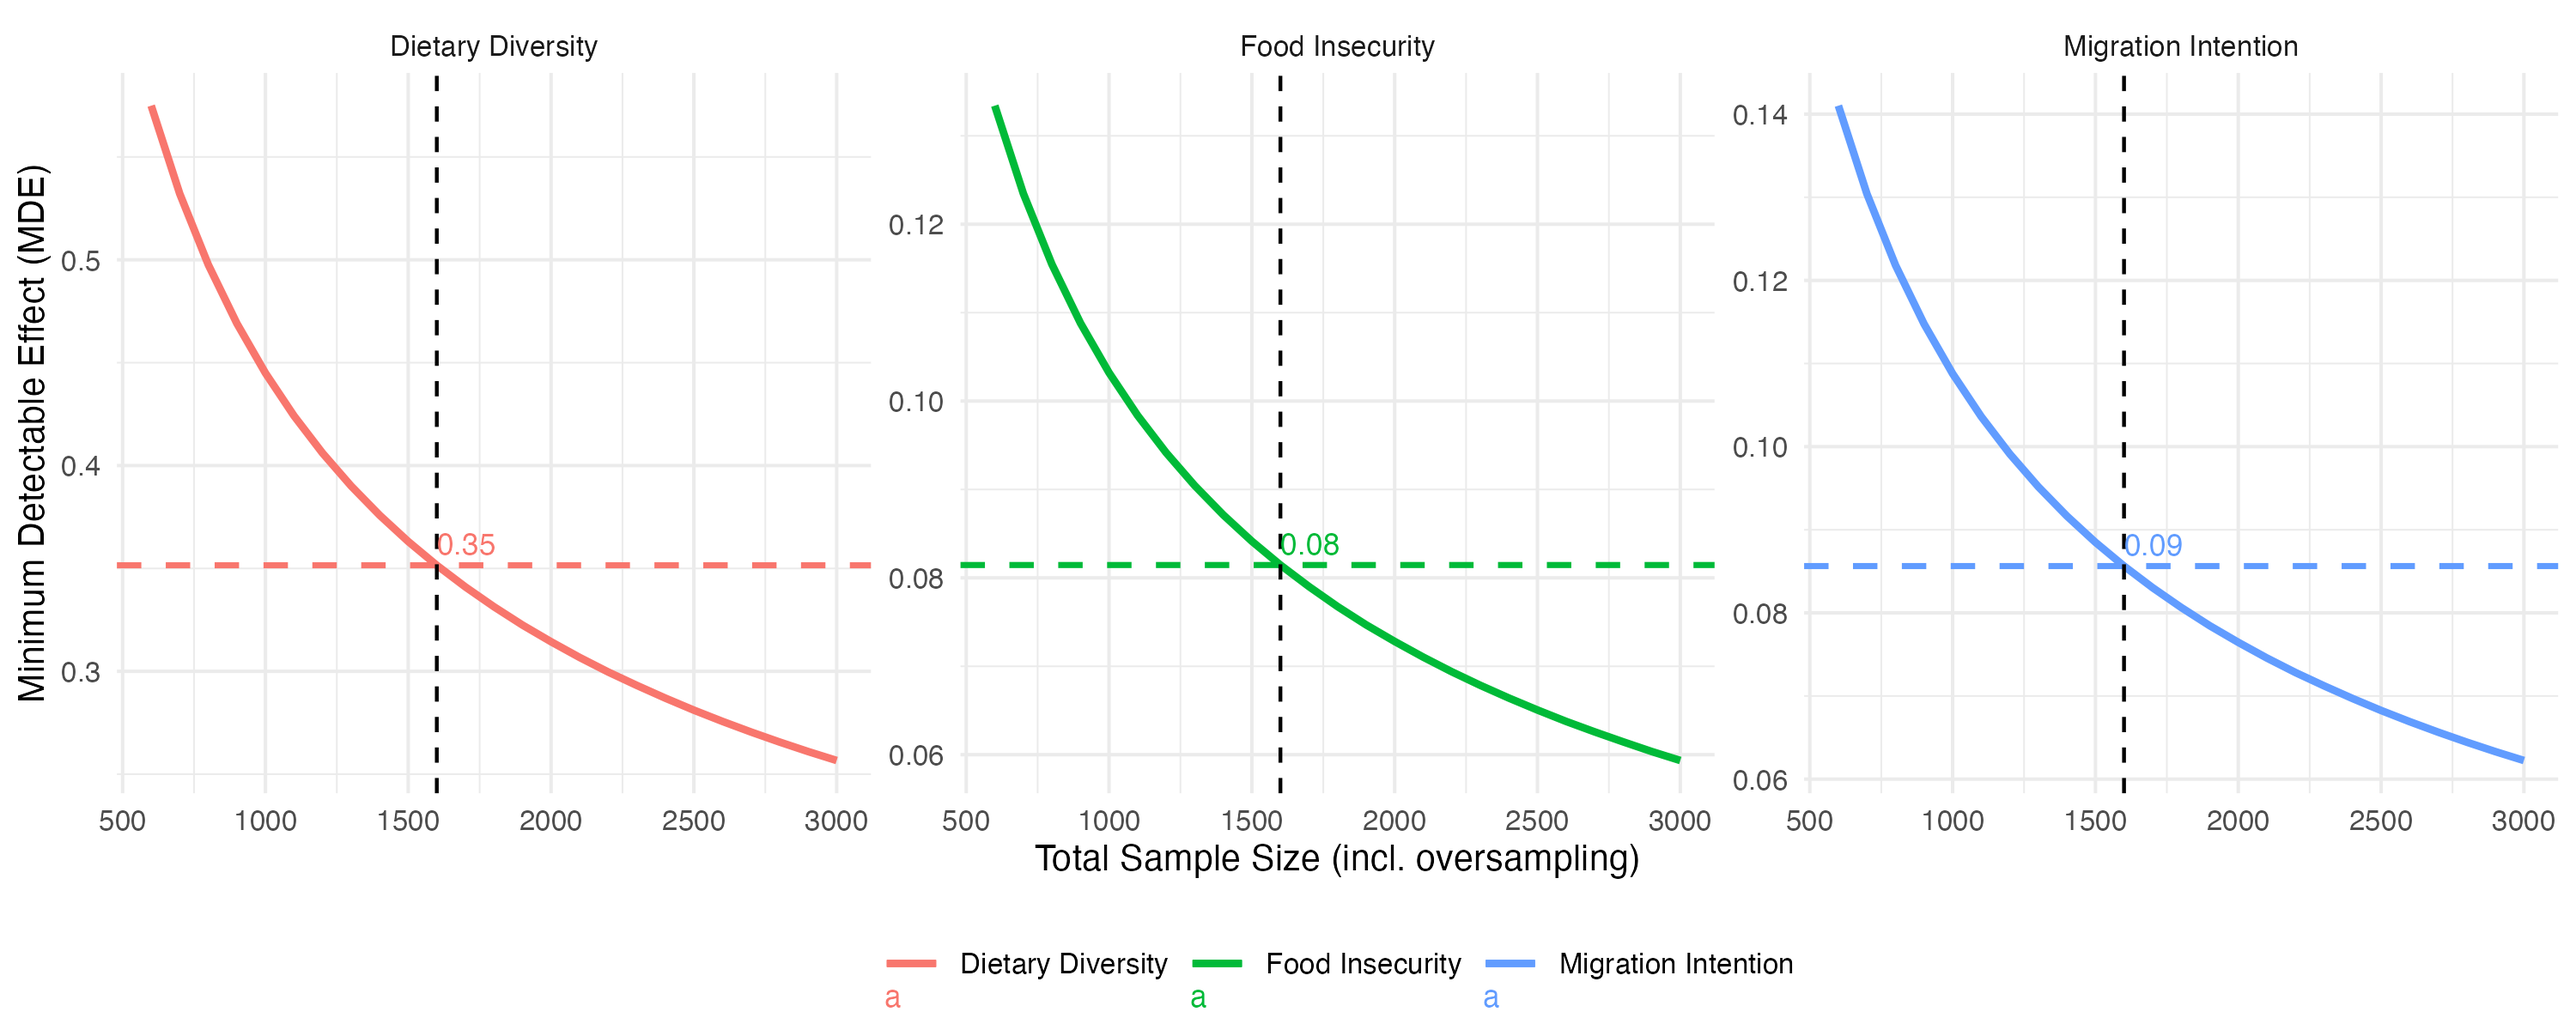
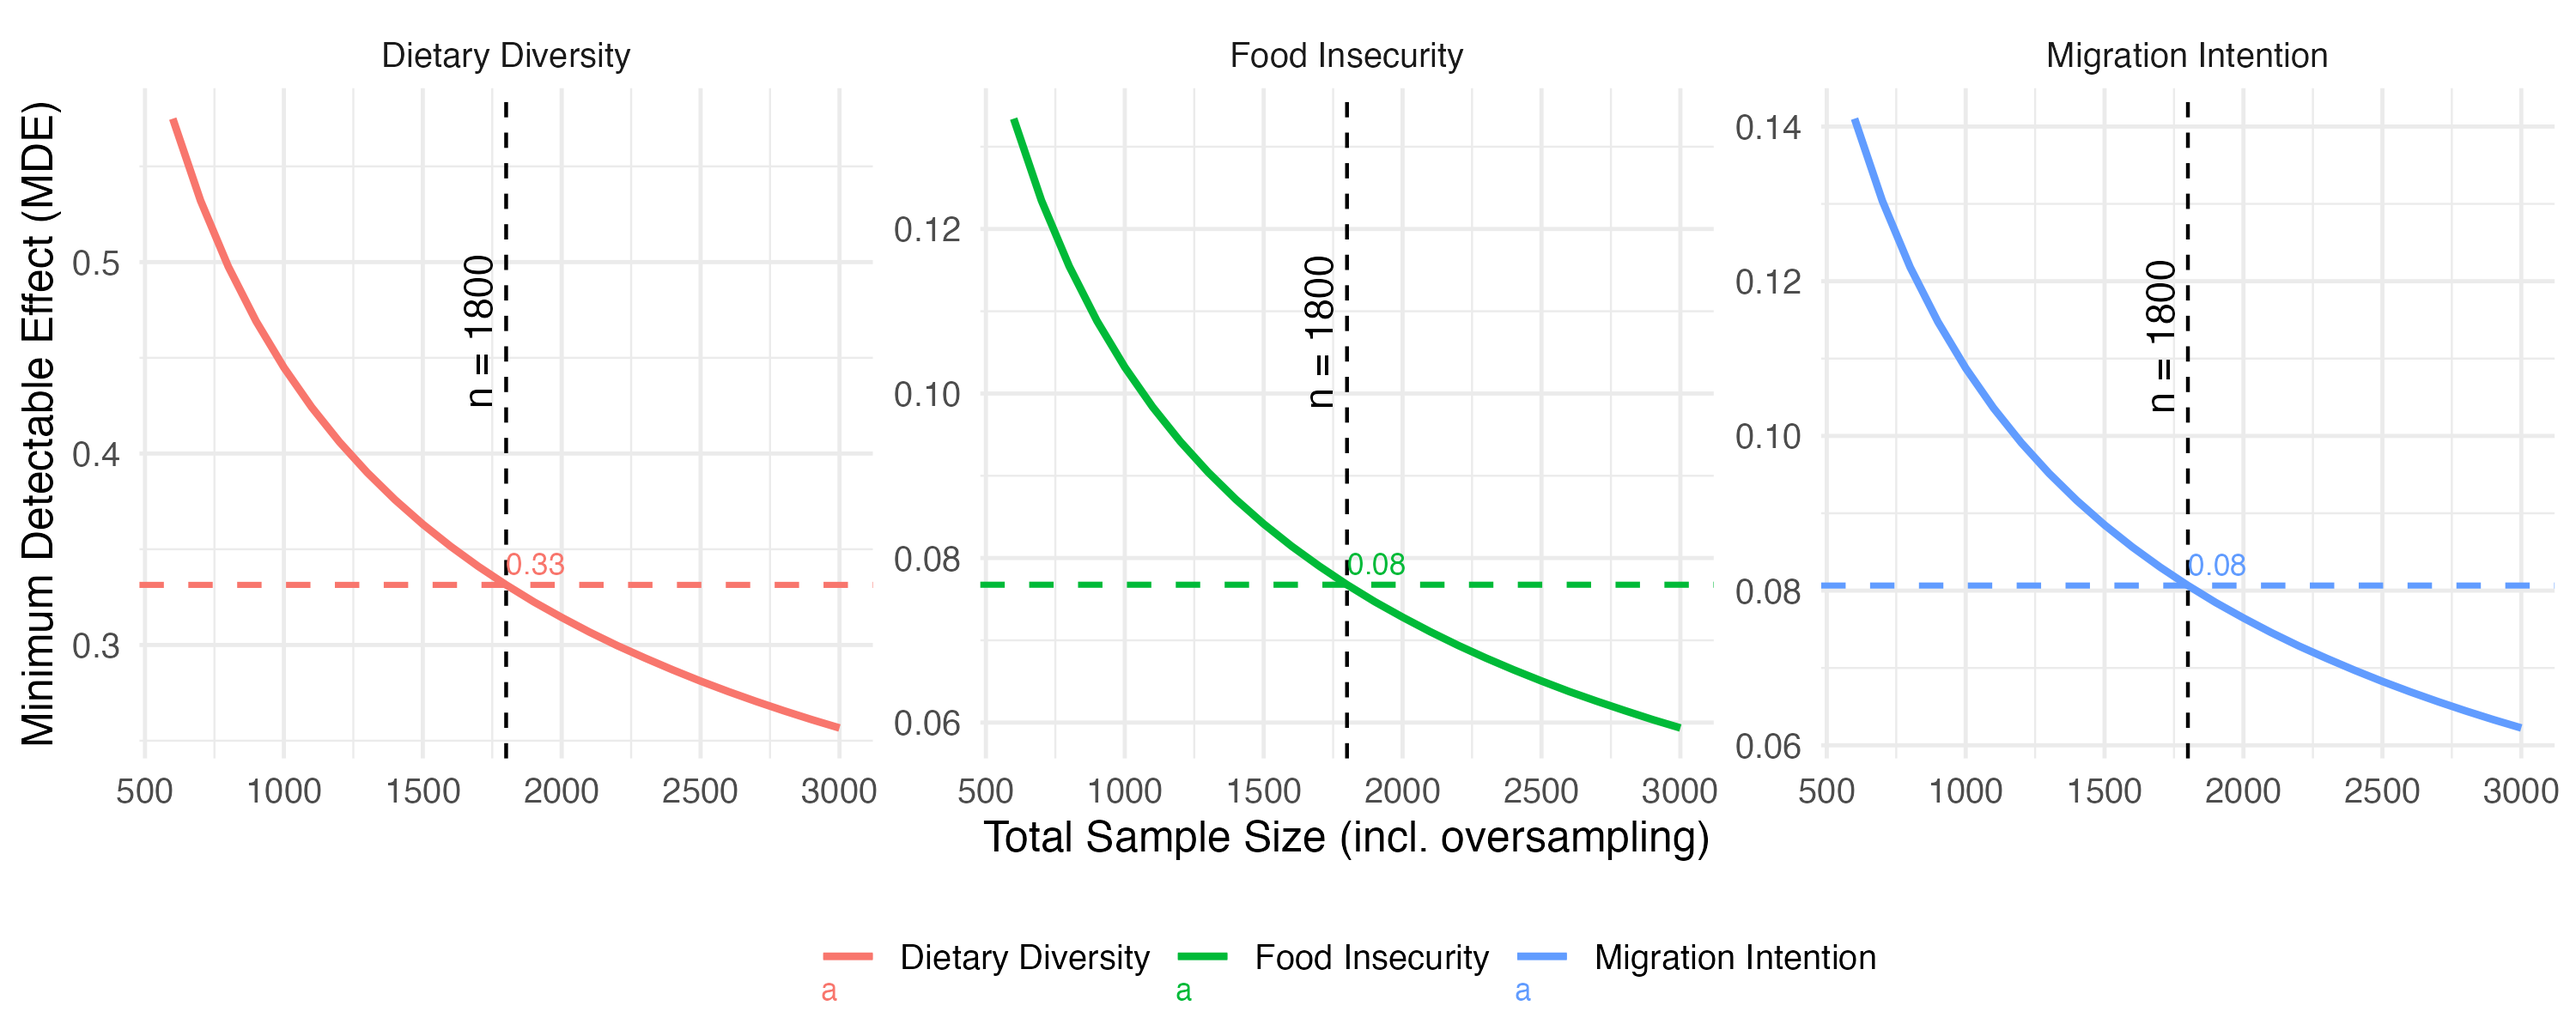
v1

diff --git a/README.md b/README.md
@@ -237,12 +237,12 @@ The simulation results were visualized to show how sample size changes with MDE 
 
 ![WB MDE vs M](img/WB_MDE_vs_N.png)
 
-We conclude that an optimal sample size will be **1600** households for the four typologies are defined:
+We conclude that an optimal sample size will be **1800** households for the four typologies are defined:
 
-* **Higher Climate Risk & Conflict‑Affected**: 608
-* **Higher Climate Risk & Non‑Conflict‑Affected**: 176 
-* **Lower Climate Risk & Conflict‑Affected**: 640
-* **Lower Climate Risk & Non‑Conflict‑Affected**: 176
+* **Higher Climate Risk & Conflict‑Affected**: 527
+* **Higher Climate Risk & Non‑Conflict‑Affected**: 353 
+* **Lower Climate Risk & Conflict‑Affected**: 536
+* **Lower Climate Risk & Non‑Conflict‑Affected**: 384
 
 ---
 
